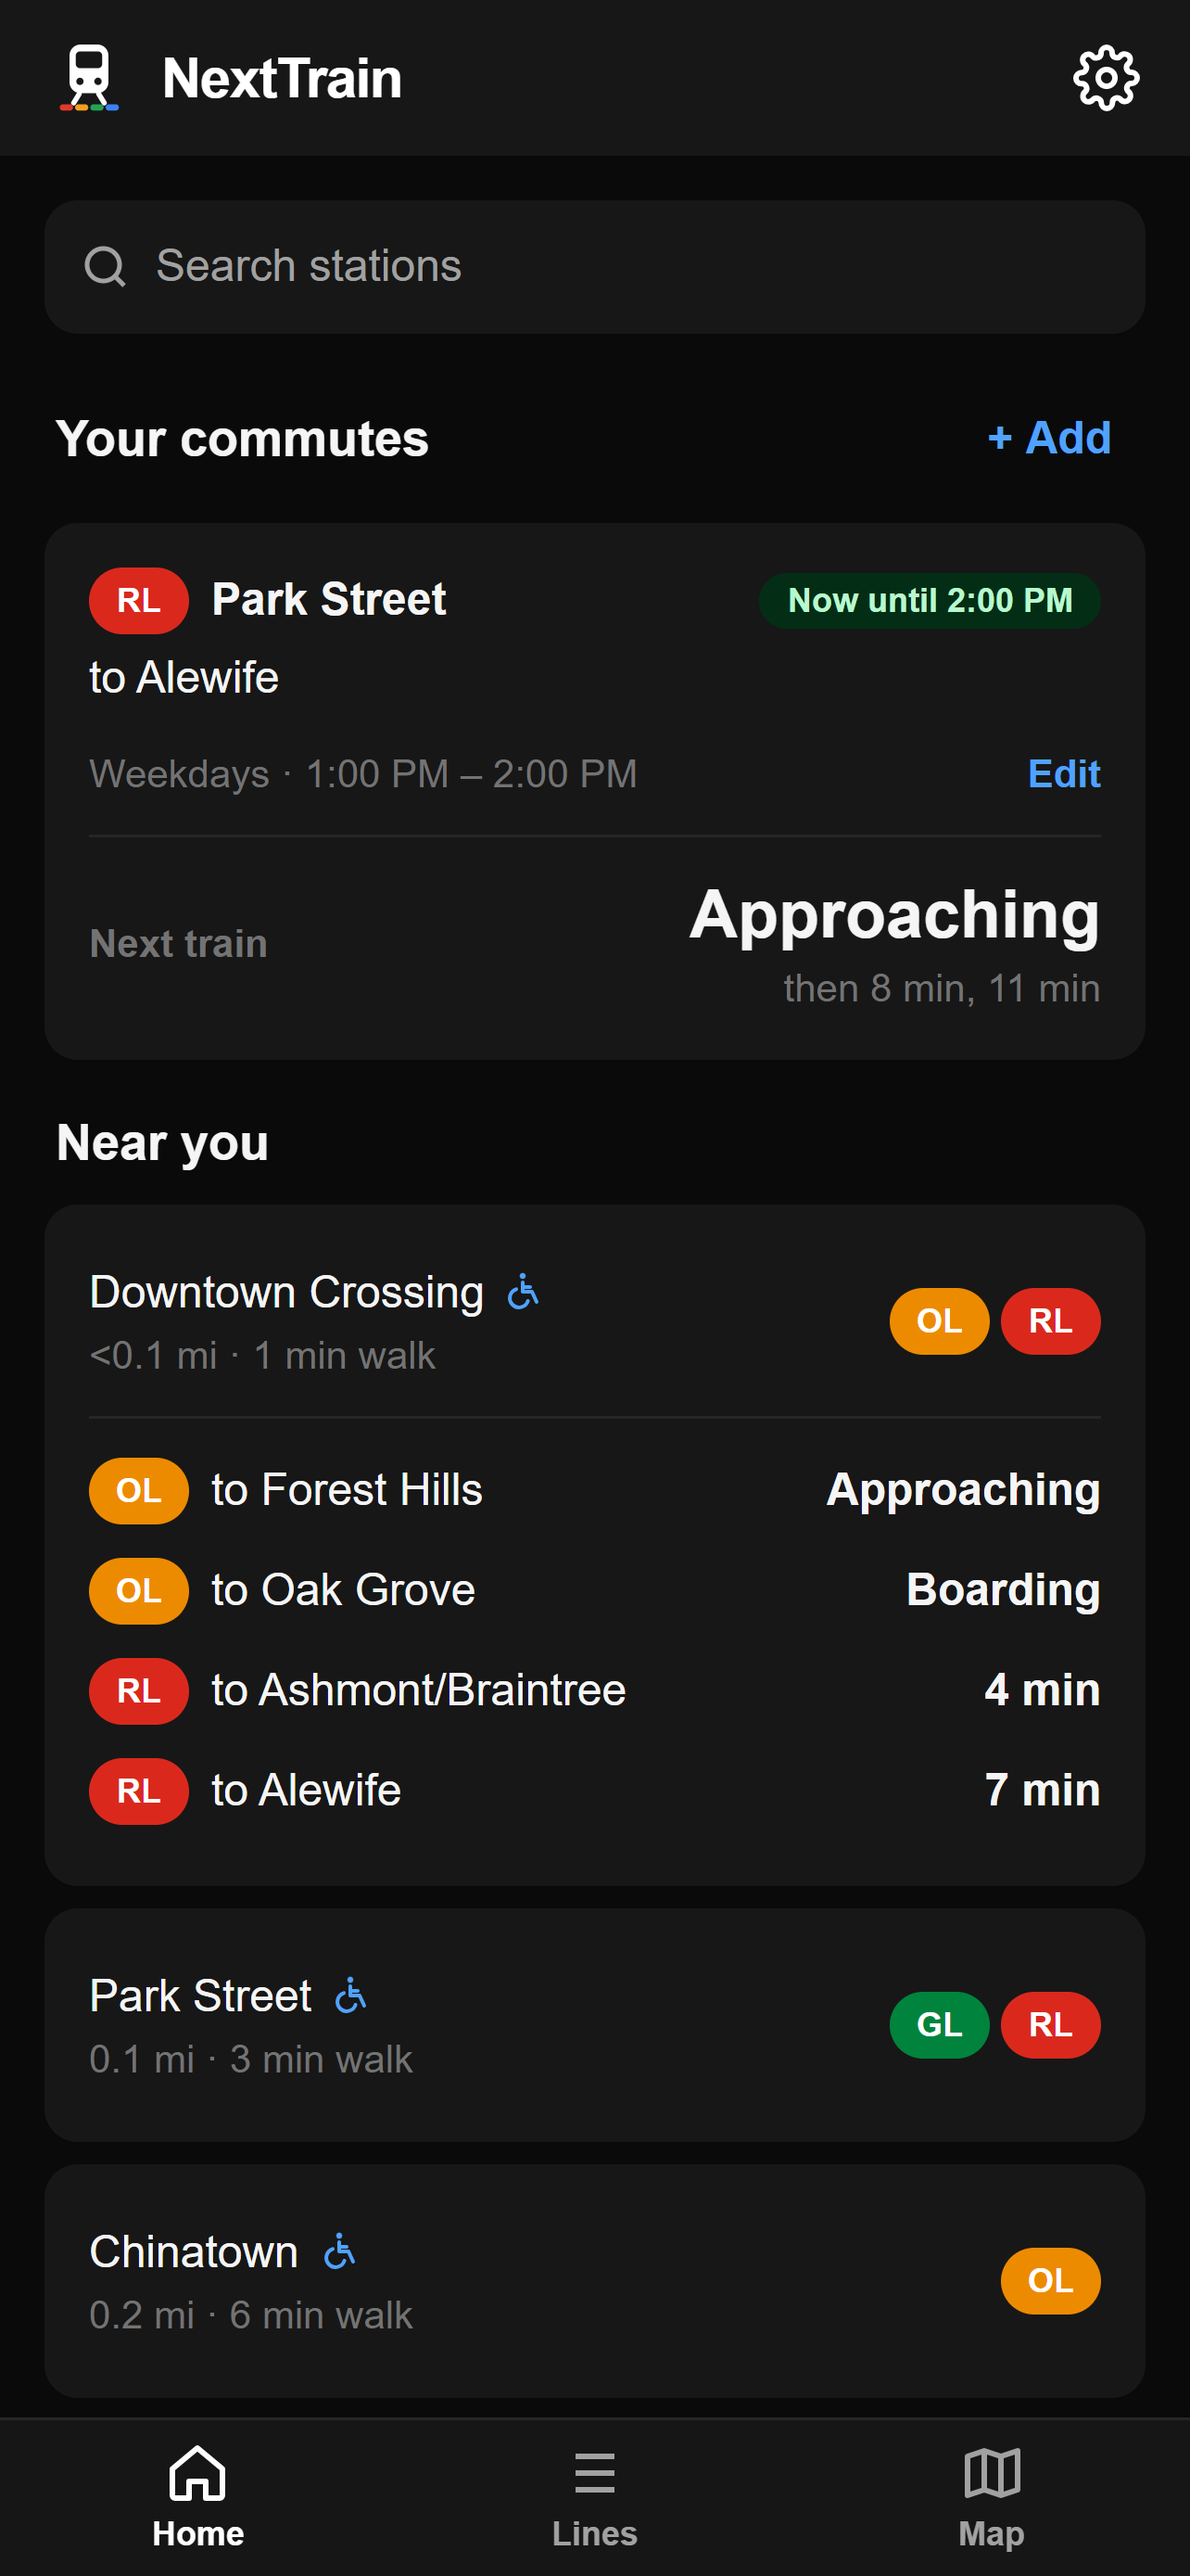
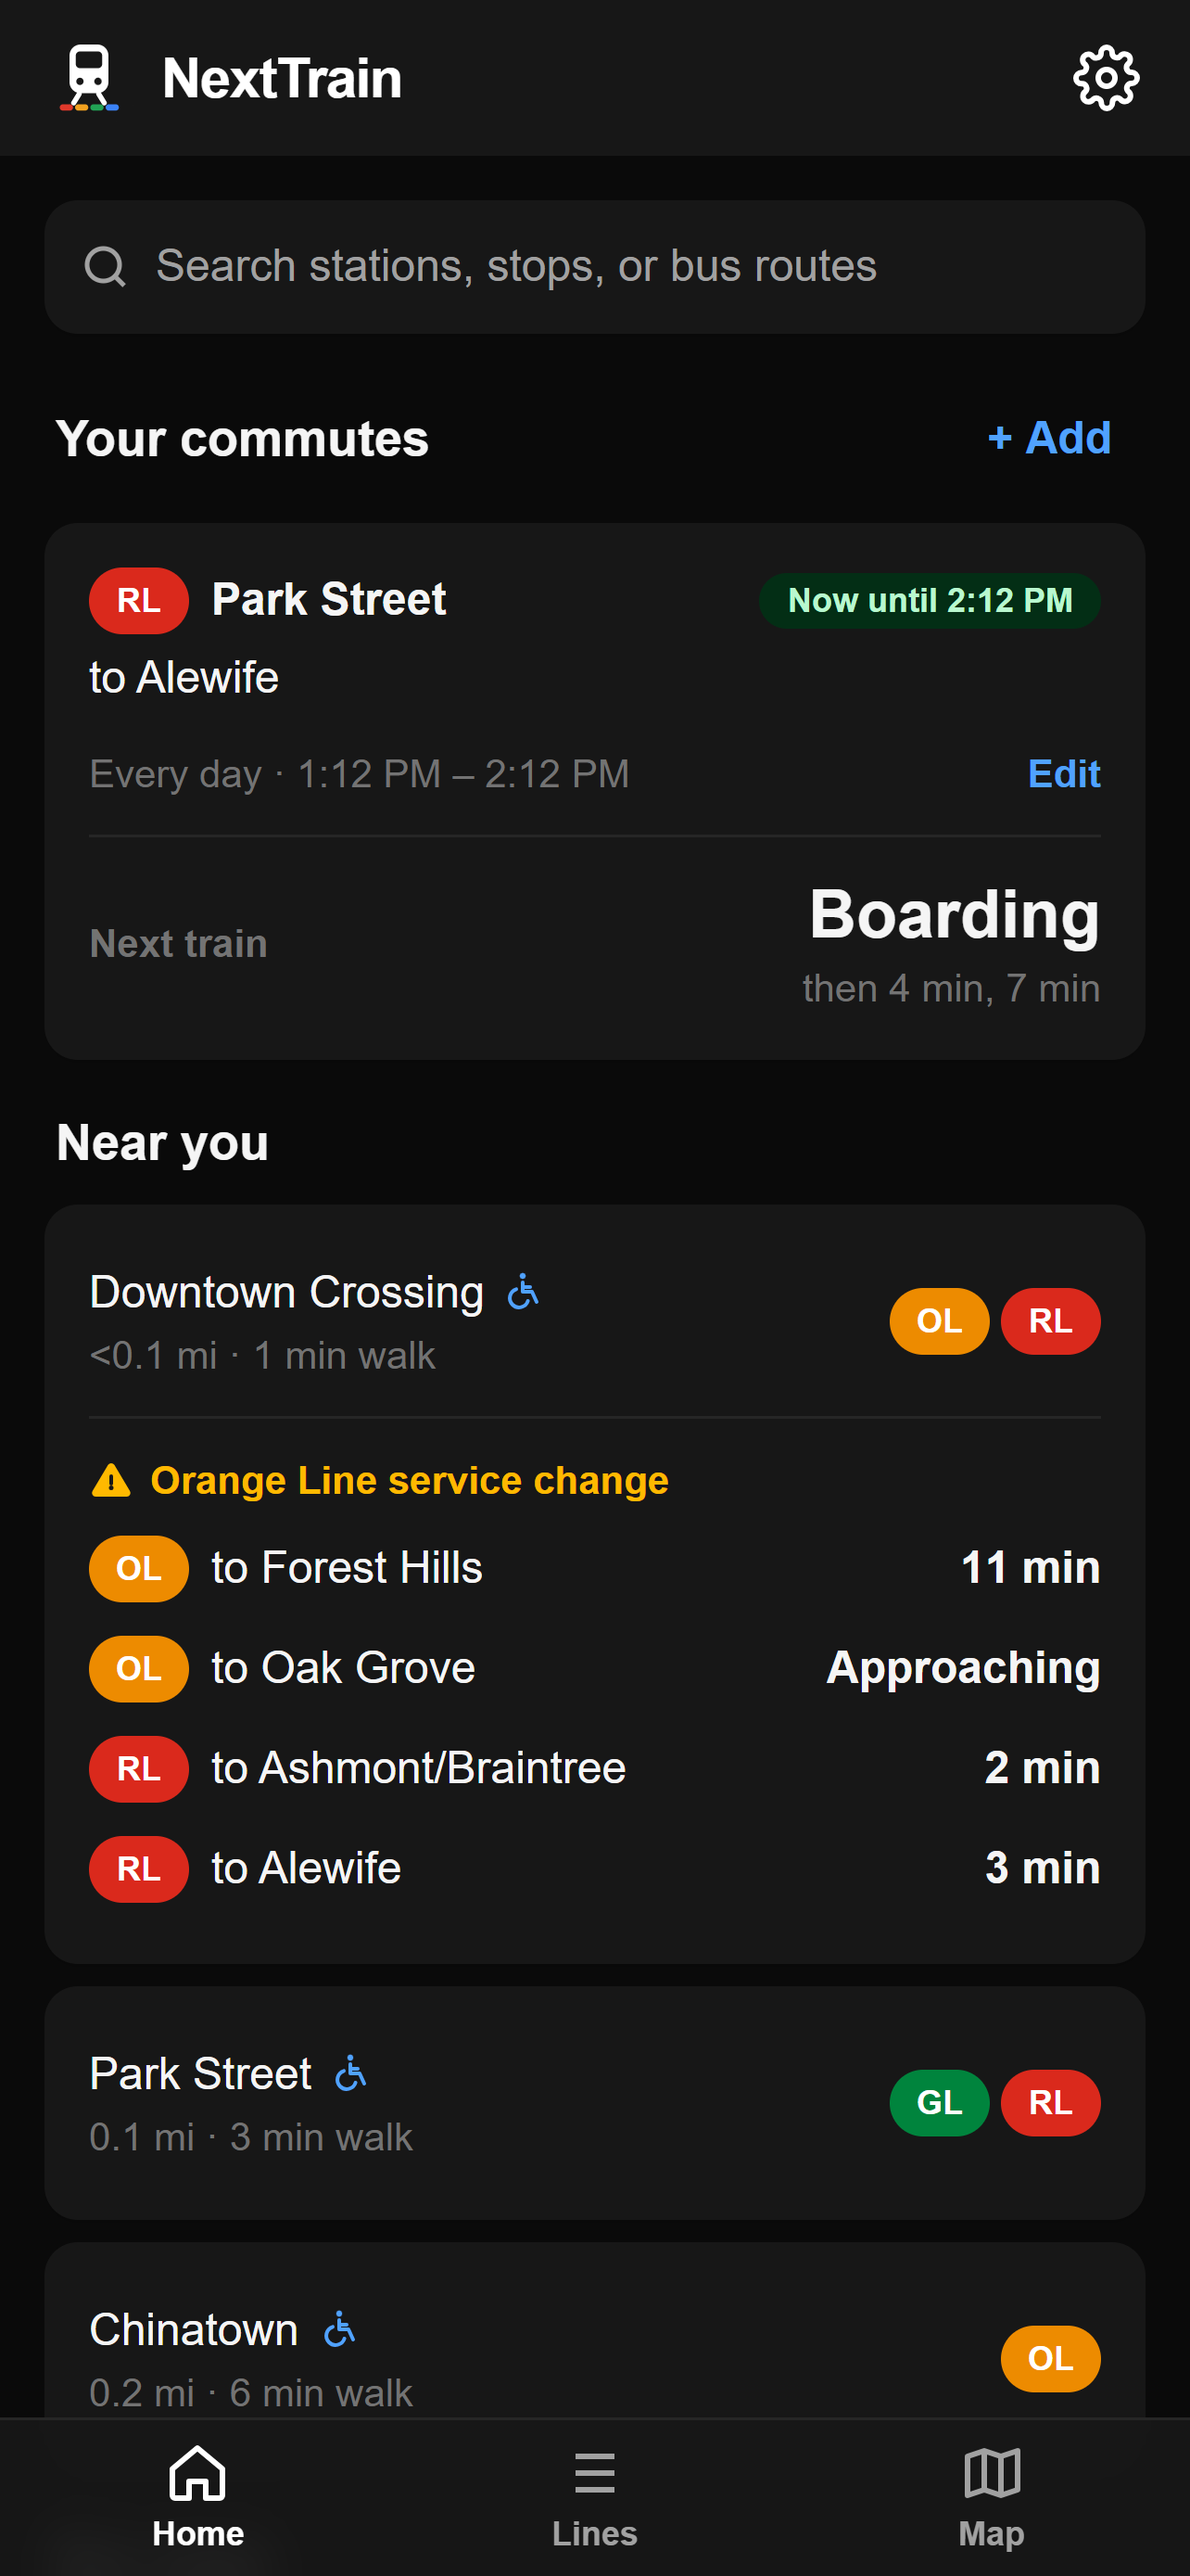
App Store 1.2: bus screenshots, What's New, and submission steps

diff --git a/docs/app-store/README.md b/docs/app-store/README.md
@@ -4,7 +4,7 @@ Everything App Store Connect asks for, drafted from what the app does today. Edi
 
 ## Screenshots
 
-Captured in dark mode from the iPhone app build (native mode) with live MBTA data on October 1, 2026, at both sizes App Store Connect asks for:
+For **version 1.2**: captured in dark mode from the iPhone app as built for TestFlight build 6 (native mode), with live MBTA data on Saturday, October 10, 2026, at both sizes App Store Connect asks for:
 
 - `screenshots/`: 1290 × 2796, the **6.9" iPhone** slot
 - `screenshots/6.5-inch/`: 1284 × 2778, the **6.5" iPhone** slot
@@ -12,13 +12,14 @@ Captured in dark mode from the iPhone app build (native mode) with live MBTA dat
 | File | Shows |
 |---|---|
 | `1-home.png` | Home: a commute happening now with its next train, and live departures at the nearest station |
-| `2-map.png` | The live map on Apple Maps: every line, station, and train, with direction arrows |
-| `3-map-train.png` | Zoomed in with station names, and a train's card: destination, next stop, and how crowded each car is |
-| `4-station.png` | A station's live departures by line and direction |
-| `5-line-live-trains.png` | The Red Line diagram with live trains and direction arrows |
-| `6-lines.png` | Every line's service status |
+| `2-map.png` | The live map on Apple Maps: every line, station, and train |
+| `3-map-train.png` | Zoomed in with station names and direction arrows, and a train's card: destination, next stop, and how crowded each car is |
+| `4-map-bus.png` | Bus mode: route 66's streets, stops, and buses, and a stop's card with its next buses, **Add commute**, and **All departures** |
+| `5-station.png` | Harvard: its trains and its buses, each under its own heading |
+| `6-line-live-trains.png` | The Red Line diagram with live trains and direction arrows |
+| `7-lines.png` | Every subway line's service status (the bus routes follow below) |
 
-To retake them, run the app locally (API on 5112, Vite on 5173) and capture at 430 × 932 and 428 × 926 CSS pixels at 3×, dark color scheme, with a commute saved. Map shots need the MapKit key in user-secrets.
+To retake them, run the app locally (API on 5112, Vite on 5173) and capture at 430 × 932 and 428 × 926 CSS pixels at 3×, dark color scheme, with a commute saved that's on at the time (pick every day, since new commutes default to weekdays). Map shots need the MapKit key in user-secrets.
 
 Make the app **iPhone-only** in Xcode (Supported Destinations: iPhone). Otherwise Apple also requires iPad screenshots and reviews the iPad layout.
 
@@ -91,9 +92,16 @@ Buses are here. All 150 MBTA bus routes, Silver Line included:
 - Search for a route by number ("66", "SL1") or a stop by street
 - Bus stops near you, with the next buses at the closest one
 - Every route's stops in order, with its buses moving along them
-- A route's streets and live buses on the map, with how crowded each bus is
+- On the map, tap Bus to see every route, then tap any stop for its next buses, or to save it as your commute
 - Save a bus commute, with Live Activities on your Lock Screen
+
+Also new:
+- A calmer map: trains are simple dots until you zoom in, and the map appears all at once
+- Your location stays visible when you pick a line on the map
+- Getting started is easier: a short welcome, a Get started card, and a step-by-step commute form
 ```
+
+What's New only shows for updates. If 1.2 ends up being the first version released (see below), App Store Connect doesn't ask for it.
 
 ## App Privacy answers
 
@@ -180,6 +188,22 @@ Upload the .mov as an attachment to the reply in App Store Connect.
    ```
    For the Simulator against your local API, use `VITE_API_URL=http://localhost:5112` instead (the app allows local-network HTTP for this).
 4. **Ship to TestFlight first** and try it on the subway, including the offline banner in a tunnel.
+
+## Submitting version 1.2
+
+Version 1.2 is **TestFlight build 6** (uploaded October 10, 2026): buses, the rider-feedback fixes, and the map's bus routes and stop cards. Submit it once your testers are happy. Everything built after build 6 is 1.3.
+
+**While 1.0 is still in review,** App Store Connect won't take a second version. Choose one:
+
+- **Let 1.0 finish (simplest).** When it's approved, follow the steps below for an update.
+- **Or replace it with 1.2.** If 1.0 has been waiting more than about a week, open version 1.0 in App Store Connect and choose **Remove from Review**. Until the app's first release, you can then change that version's number to **1.2** and follow steps 2–5 below. You give up 1.0's place in the queue, but riders get buses on day one.
+
+**Steps:**
+1. App Store Connect → **Apps → NextTrain → +** (next to iOS App) → **1.2**.
+2. **Build:** choose **1.2 (6)**.
+3. **Text:** paste the 1.2 name, subtitle, promotional text, description, keywords, and What's New from *Listing text* above. The name and subtitle can change with any version.
+4. **Screenshots:** in **iPhone 6.9" Display**, remove the old ones and drag in the 7 files from `screenshots/` in order. Do the same for **6.5" Display** with `screenshots/6.5-inch/`.
+5. **App Review Information:** the notes below already cover buses. Then **Add for Review → Submit**. Choose **Manually release** if you want to pick the moment it goes live.
 
 ## Protecting yourself
 
